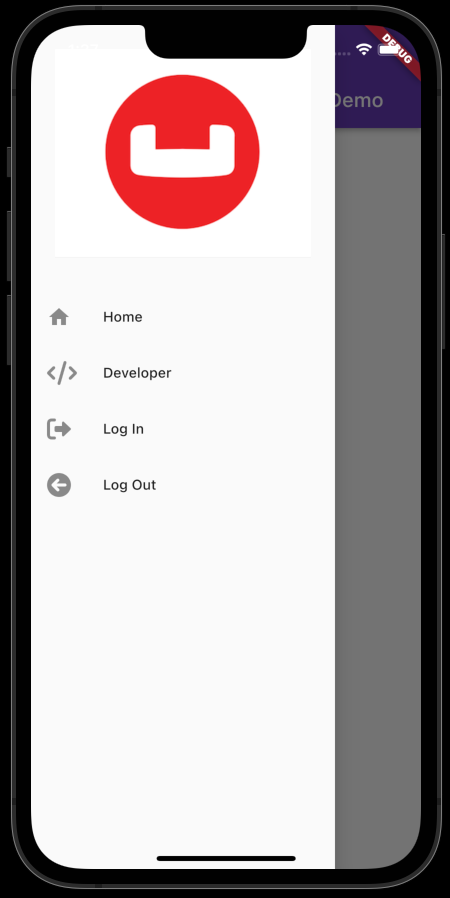
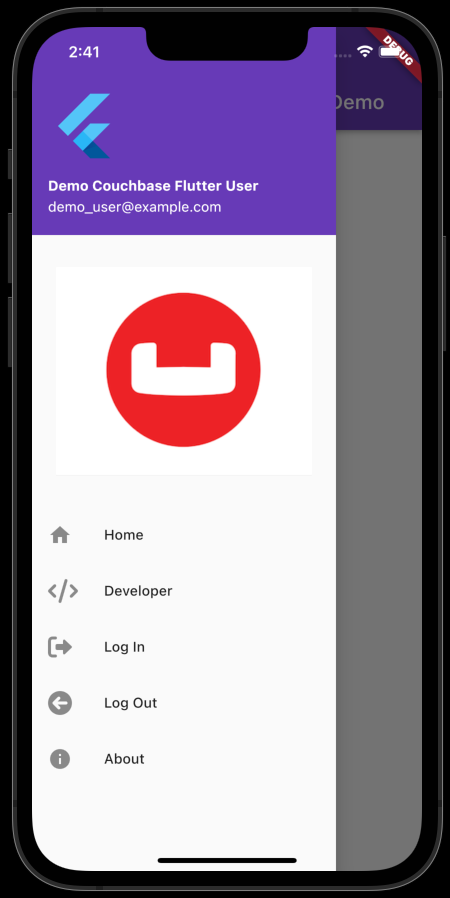
New About item and updated screenshots and README

diff --git a/lib/main.dart b/lib/main.dart
@@ -69,57 +69,89 @@ class _MyHomePageState extends State<MyHomePage> {
           // Important: Remove any padding from the ListView.
           padding: EdgeInsets.zero,
           children: [
-          Container(
-            // height: 300,
-            padding: const EdgeInsets.all(24),
-            child: const DrawerHeader(
-              // child: Text('Couchbase Lite Flutter Demo'),
-              decoration: BoxDecoration(
-                color: Colors.deepPurple,
-                image: DecorationImage(
-                    image: AssetImage('assets/couchbase_logo.png'),
-                    fit: BoxFit.cover),
-              ), child: null,
+            const UserAccountsDrawerHeader(
+              decoration: BoxDecoration(color: Colors.deepPurple),
+              accountName: Text(
+                "Demo Couchbase Flutter User",
+                style: TextStyle(
+                  fontWeight: FontWeight.bold,
+                ),
+              ),
+              accountEmail: Text(
+                "demo_user@example.com",
+                style: TextStyle(
+                  // fontWeight: FontWeight.bold,
+                  fontWeight: FontWeight.normal,
+                ),
+              ),
+              currentAccountPicture: FlutterLogo(),
             ),
+            Container(
+              // height: 300,
+              padding: const EdgeInsets.all(24),
+              child: const DrawerHeader(
+                // child: Text('Couchbase Lite Flutter Demo'),
+                decoration: BoxDecoration(
+                  color: Colors.deepPurple,
+                  image: DecorationImage(
+                      image: AssetImage('assets/couchbase_logo.png'),
+                      fit: BoxFit.cover),
+                ), child: null,
+              ),
+            ),
+              ListTile(
+                leading: const Icon(
+                  Icons.home,
+                ),
+                title: const Text('Home'),
+                onTap: () {
+                  Navigator.pop(context);
+                },
+              ),
+              ListTile(
+                leading: const Icon(
+                  FontAwesomeIcons.code,
+                ),
+                title: const Text('Developer'),
+                onTap: () {
+                  Navigator.pop(context);
+                },
+              ),
+              ListTile(
+                leading: const Icon(
+                  FontAwesomeIcons.rightFromBracket,
+                ),
+                title: const Text('Log In'),
+                onTap: () {
+                  Navigator.pop(context);
+                },
+              ),
+              ListTile(
+                leading: const Icon(
+                  FontAwesomeIcons.circleArrowLeft,
+                ),
+                title: const Text('Log Out'),
+                onTap: () {
+                  Navigator.pop(context);
+                },
+              ),
+              const AboutListTile(
+                icon: Icon(
+                  Icons.info,
+                ),
+                applicationIcon: Icon(
+                  Icons.local_play,
+                ),
+                applicationName: 'Flutter with Couchbase',
+                applicationVersion: '0.1.0',
+                applicationLegalese: '© 2022 MIT License',
+                aboutBoxChildren: [
+                  ///Content goes here...
+                ],
+                child: Text('About'),
+              ),
+            ],
           ),
-            ListTile(
-              leading: const Icon(
-                Icons.home,
-              ),
-              title: const Text('Home'),
-              onTap: () {
-                Navigator.pop(context);
-              },
-            ),
-            ListTile(
-              leading: const Icon(
-                FontAwesomeIcons.code,
-              ),
-              title: const Text('Developer'),
-              onTap: () {
-                Navigator.pop(context);
-              },
-            ),
-            ListTile(
-              leading: const Icon(
-                FontAwesomeIcons.rightFromBracket,
-              ),
-              title: const Text('Log In'),
-              onTap: () {
-                Navigator.pop(context);
-              },
-            ),
-            ListTile(
-              leading: const Icon(
-                FontAwesomeIcons.circleArrowLeft,
-              ),
-              title: const Text('Log Out'),
-              onTap: () {
-                Navigator.pop(context);
-              },
-            ),
-          ],
-        ),
       ),
       body: Center(
         child: Column(

diff --git a/README.md b/README.md
@@ -5,6 +5,9 @@ Couchbase Lite Flutter POC (proof of concept)
 
 ![Main Navigator Page](./screenshots/screenshot_main_02.png?raw=true)
 
+![Main Navigator Page](./screenshots/screenshot_about_01.png?raw=true)
+
+
 ***This is not an official Couchbase supported product and is always a work in progress!***
 
 Please feel free to create Git branches and contribute.
